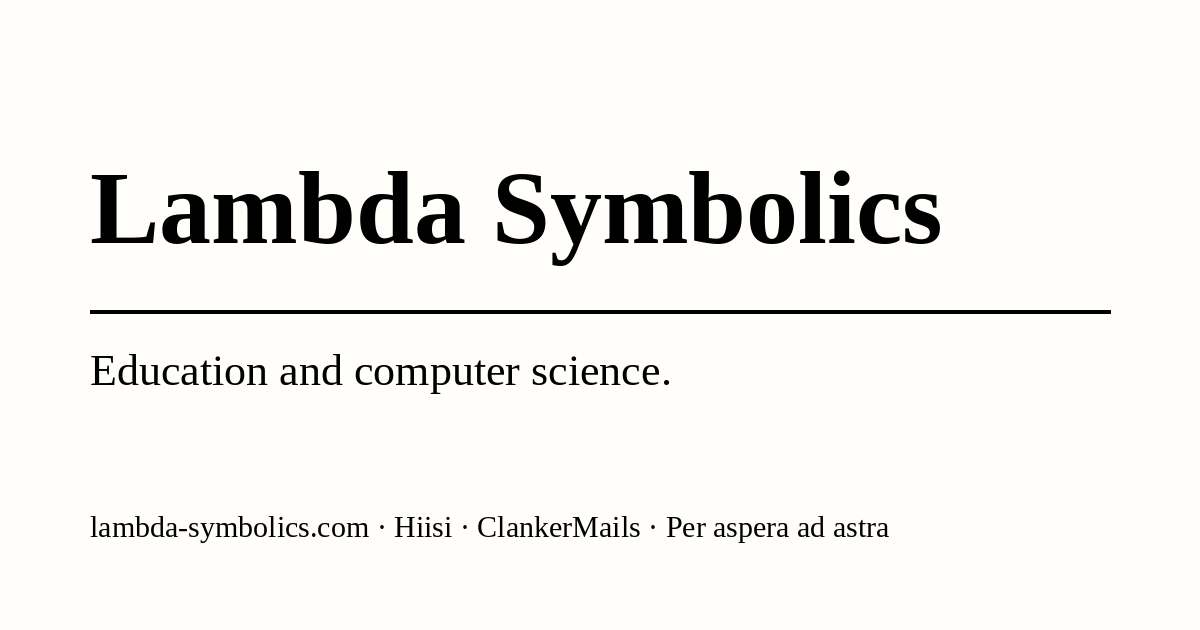
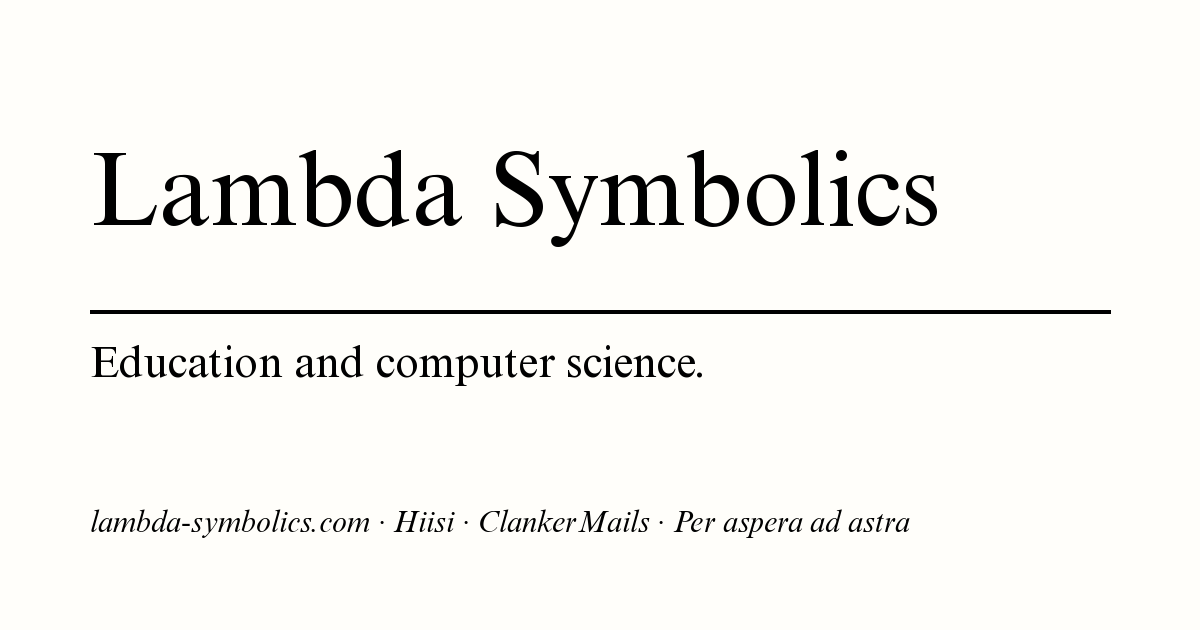
Render og cover with self-hosted faces and masthead weight

Changed region(s): [[0.0617, 0.2413, 0.8017, 0.4222], [0.0617, 0.5429, 0.5858, 0.6333], [0.0617, 0.8143, 0.7708, 0.8746]]

diff --git a/tools/make-og.py b/tools/make-og.py
@@ -2,9 +2,10 @@
 """Regenerate og.png for lambda-symbolics.com.
 
 Deterministic, typographic cover per the Programmable Paper design
-language: black ink on off-white paper, serif type, one rule, no
-photography, no gradients, no gray design values (glyph antialiasing
-is the permitted exception).
+language: black ink on one gentle off-white substrate, the repository's
+own Times New Roman faces, a masthead-weight (regular) title, one rule,
+an italic metadata line. No photography, no gradients, no gray design
+values (glyph antialiasing is the permitted exception).
 
 Usage: python3 tools/make-og.py  (from the repository root)
 """
@@ -19,15 +20,20 @@ PAPER = (255, 254, 250)  # #FFFEFA
 WIDTH, HEIGHT = 1200, 630
 MARGIN = 90
 
-BOLD_CANDIDATES = [
-    "/usr/share/fonts/liberation/LiberationSerif-Bold.ttf",
-    "/usr/share/fonts/truetype/liberation/LiberationSerif-Bold.ttf",
-    "/usr/share/fonts/gsfonts/NimbusRoman-Bold.otf",
-]
+ROOT = Path(__file__).resolve().parent.parent
+FONTS = ROOT / "fonts"
+
 REGULAR_CANDIDATES = [
+    str(FONTS / "times-new-roman-regular.ttf"),
     "/usr/share/fonts/liberation/LiberationSerif-Regular.ttf",
     "/usr/share/fonts/truetype/liberation/LiberationSerif-Regular.ttf",
     "/usr/share/fonts/gsfonts/NimbusRoman-Regular.otf",
+]
+ITALIC_CANDIDATES = [
+    str(FONTS / "times-new-roman-italic.ttf"),
+    "/usr/share/fonts/liberation/LiberationSerif-Italic.ttf",
+    "/usr/share/fonts/truetype/liberation/LiberationSerif-Italic.ttf",
+    "/usr/share/fonts/gsfonts/NimbusRoman-Italic.otf",
 ]
 
 
@@ -35,16 +41,16 @@ def load_font(candidates, size):
     for path in candidates:
         if Path(path).exists():
             return ImageFont.truetype(path, size)
-    raise SystemExit("No Times-compatible serif font found; install liberation fonts.")
+    raise SystemExit("No Times-compatible serif font found.")
 
 
 def main():
     image = Image.new("RGB", (WIDTH, HEIGHT), PAPER)
     draw = ImageDraw.Draw(image)
 
-    title_font = load_font(BOLD_CANDIDATES, 104)
+    title_font = load_font(REGULAR_CANDIDATES, 104)
     lede_font = load_font(REGULAR_CANDIDATES, 44)
-    meta_font = load_font(REGULAR_CANDIDATES, 30)
+    meta_font = load_font(ITALIC_CANDIDATES, 30)
 
     draw.text((MARGIN, 150), "Lambda Symbolics", font=title_font, fill=INK)
 
@@ -56,7 +62,7 @@ def main():
     meta = "lambda-symbolics.com · Hiisi · ClankerMails · Per aspera ad astra"
     draw.text((MARGIN, HEIGHT - MARGIN - 30), meta, font=meta_font, fill=INK)
 
-    out = Path(__file__).resolve().parent.parent / "og.png"
+    out = ROOT / "og.png"
     image.save(out, "PNG")
     print(f"wrote {out} ({WIDTH}x{HEIGHT})")
 

diff --git a/README.md b/README.md
@@ -18,7 +18,7 @@ gray, no JavaScript. The full design specification lives in
 - `rust-course.html`: Rust course page
 - `404.html`: not-found page
 - `paper.css`: Programmable Paper stylesheet
-- `tools/make-og.py`: regenerates `og.png` (Pillow + Liberation Serif)
+- `tools/make-og.py`: regenerates `og.png` (Pillow + the repo Times New Roman faces)
 
 ## Local preview
 